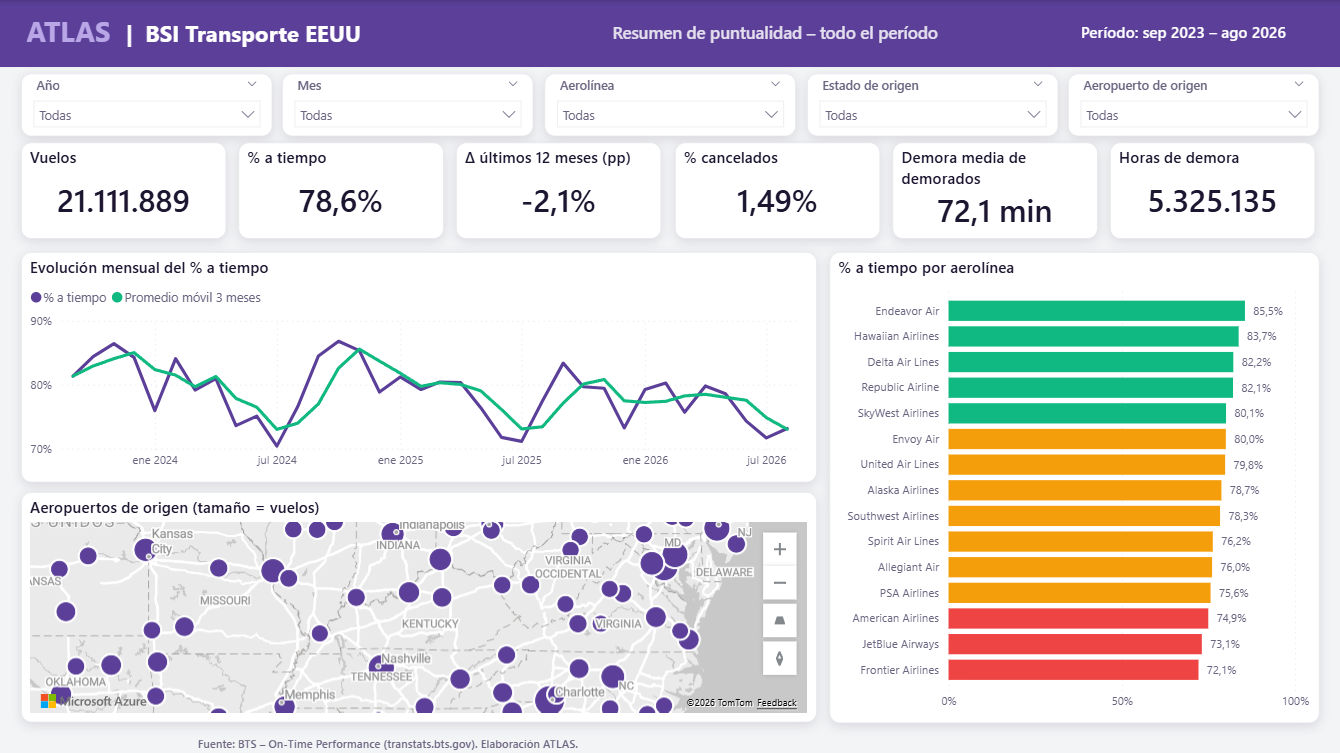
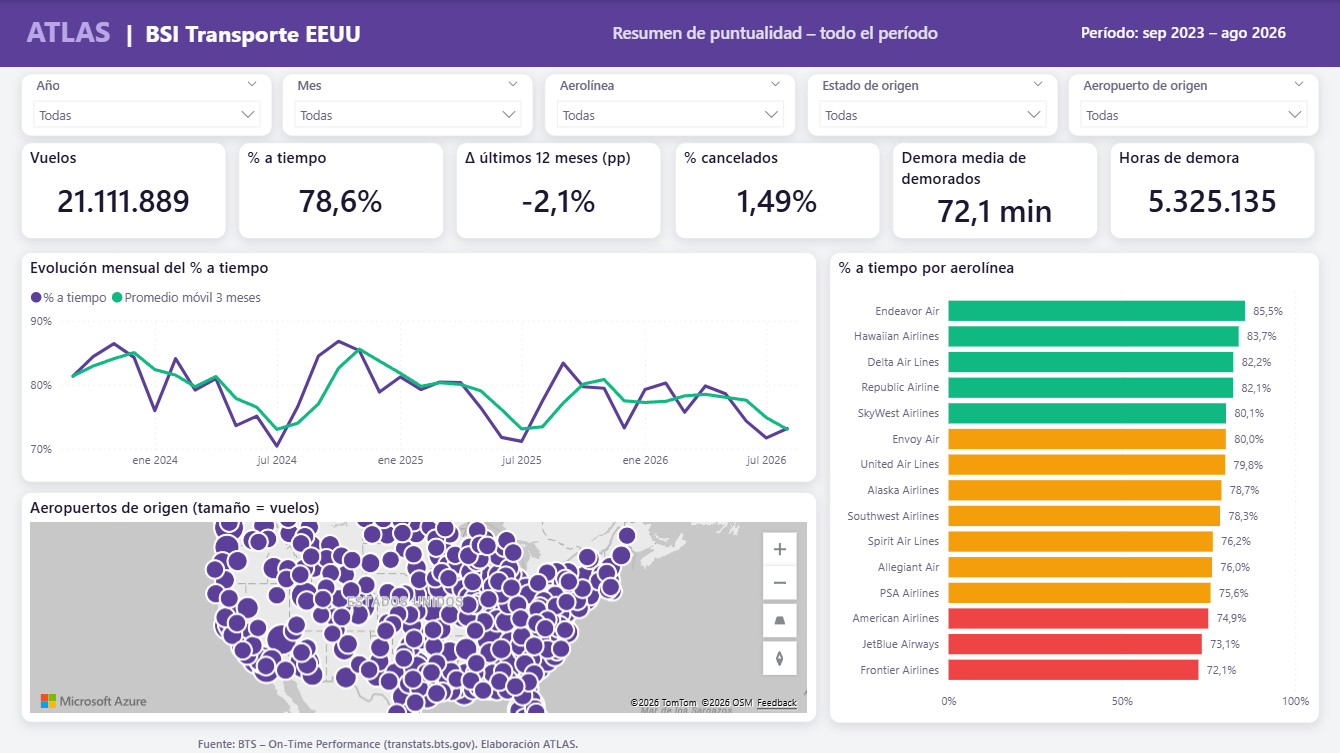
Generador al día con la revisión de UI/UX; mapa del Resumen con vista país
- 03_generar_pbip.py produce el mismo reporte y modelo que pbip/: tema
  ATLAS_Theme.json, semáforo 80/75, sombras, título dinámico, barras de
  datos, mapa de calor divergente, formato condicional del detalle y panel
  de filtros oculto
- Mapa de la página Resumen: vuelve a la vista de todo el país (Desktop lo
  había guardado con zoom en la costa este)
- Tema sin la clave outspacePane, que no es un estilo visual

Changed region(s): [[0.0, 0.672, 0.5813, 0.9469]]

diff --git a/scripts/03_generar_pbip.py b/scripts/03_generar_pbip.py
@@ -21,12 +21,16 @@ BASE_THEME = "CY26SU02"
 AZUL = "#1D1631"     # tinta ATLAS (banda, títulos)
 VIOLETA = "#5B3F99"  # acento ATLAS
 LILA = "#B9A6E6"
-TURQ = "#2E9C8F"     # bueno
-AMBAR = "#E0A526"    # neutro
-ROJO = "#C8102E"     # malo
+TURQ = "#10B981"     # bueno (semáforo: ≥80% a tiempo)
+AMBAR = "#F59E0B"    # neutro (75–80%)
+ROJO = "#EF4444"     # malo (<75%)
 GRIS = "#6B6480"
-FONDO = "#F4F1F9"
-BORDE = "#E4DFEE"
+FONDO = "#F3F4F6"    # lienzo
+FILA_ALT = "#F9FAFB" # filas alternas de tablas
+BORDE = "#E5E7EB"
+# mapa de calor divergente azul → claro → naranja (apto daltónicos)
+CALOR = ["#2166AC", "#67A9CF", "#D1E5F0", "#FDDBC7", "#F4A15D", "#D9600F"]
+TEMA_ARCHIVO = "ATLAS_Theme.json"
 PALETA = [VIOLETA, TURQ, AMBAR, "#1F4E9C", ROJO, "#7A5FB5", "#9A93AD", "#E06C3C", AZUL, GRIS]
 
 SM = f"{NAME}.SemanticModel"
@@ -183,20 +187,35 @@ MEDIDAS = [
      "\"Vuelos de \" & FORMAT ( MAX ( fDetalle[Fecha] ), \"mmmm yyyy\" )",
      None, "6 Detalle", None),
     # --- Formato y textos
-    ("Color % A Tiempo",
-     f"VAR v = [% A Tiempo]\nRETURN\n    SWITCH ( TRUE (), ISBLANK ( v ), BLANK (), v >= 0.80, \"{TURQ}\", v >= 0.72, \"{AMBAR}\", \"{ROJO}\" )",
-     None, "9 Formato", "Semáforo: verde ≥80%, ámbar ≥72%, rojo debajo"),
+    ("Color Puntualidad",
+     f"VAR v = [% A Tiempo]\nRETURN\n    SWITCH ( TRUE (), ISBLANK ( v ), BLANK (), v >= 0.80, \"{TURQ}\", v >= 0.75, \"{AMBAR}\", \"{ROJO}\" )",
+     None, "9 Formato", "Semáforo de puntualidad: verde ≥80%, ámbar 75–80%, rojo <75%"),
+    ("Color % A Tiempo", "[Color Puntualidad]",
+     None, "9 Formato", "Semáforo (alias de Color Puntualidad): verde ≥80%, ámbar 75–80%, rojo <75%"),
     ("Color P % A Tiempo",
-     f"VAR v = [P % A Tiempo]\nRETURN\n    SWITCH ( TRUE (), ISBLANK ( v ), BLANK (), v >= 0.80, \"{TURQ}\", v >= 0.72, \"{AMBAR}\", \"{ROJO}\" )",
-     None, "9 Formato", None),
+     f"VAR v = [P % A Tiempo]\nRETURN\n    SWITCH ( TRUE (), ISBLANK ( v ), BLANK (), v >= 0.80, \"{TURQ}\", v >= 0.75, \"{AMBAR}\", \"{ROJO}\" )",
+     None, "9 Formato", "Semáforo sobre fPatrones: verde ≥80%, ámbar 75–80%, rojo <75%"),
     ("Color % Demorados",
-     f"VAR v = [P % Demorados]\nRETURN\n    SWITCH ( TRUE (), ISBLANK ( v ), BLANK (), v < 0.15, \"{TURQ}\", v < 0.20, \"#7FB8A0\", v < 0.25, \"{AMBAR}\", v < 0.30, \"#E06C3C\", \"{ROJO}\" )",
-     None, "9 Formato", "Escala del mapa de calor: <15% verde ... ≥30% rojo"),
+     "VAR v = [P % Demorados]\nRETURN\n    SWITCH ( TRUE (), ISBLANK ( v ), BLANK (),\n"
+     f"        v < 0.12, \"{CALOR[0]}\", v < 0.16, \"{CALOR[1]}\", v < 0.20, \"{CALOR[2]}\",\n"
+     f"        v < 0.24, \"{CALOR[3]}\", v < 0.28, \"{CALOR[4]}\", \"{CALOR[5]}\" )",
+     None, "9 Formato", "Mapa de calor divergente azul → claro → naranja (apto daltónicos): azul = pocas demoras"),
+    ("Color Texto % Demorados",
+     f"VAR v = [P % Demorados]\nRETURN\n    SWITCH ( TRUE (), ISBLANK ( v ), BLANK (), v < 0.16 || v >= 0.28, \"#FFFFFF\", \"{AZUL}\" )",
+     None, "9 Formato", "Texto oscuro sobre celdas claras del mapa de calor, blanco sobre las oscuras"),
+    ("Color Demora Llegada",
+     "VAR v = MAX ( fDetalle[DemoraLlegadaMin] )\nRETURN\n    SWITCH ( TRUE (), ISBLANK ( v ), BLANK (), v > 60, \"#FDE2E2\", v <= 0, \"#D1FAE5\", BLANK () )",
+     None, "9 Formato", "Detalle: rojo si la llegada se demoró más de 60 min, verde si llegó sin demora"),
     ("Texto Período",
      "\"Período: \" & FORMAT ( MIN ( dMes[FechaMes] ), \"mmm yyyy\" ) & \" – \" & FORMAT ( MAX ( dMes[FechaMes] ), \"mmm yyyy\" )",
      None, "9 Formato", None),
     ("Texto Fuente", "\"Fuente: BTS – On-Time Performance (transtats.bts.gov). Elaboración ATLAS.\"", None,
      "9 Formato", None),
+    ("Titulo Dinamico",
+     "VAR anio = IF ( HASONEVALUE ( dMes[Anio] ), \" \" & VALUES ( dMes[Anio] ), IF ( ISFILTERED ( dMes[Anio] ), \" \" & CONCATENATEX ( VALUES ( dMes[Anio] ), dMes[Anio], \", \", dMes[Anio] ), \"\" ) )\n"
+     "VAR mes = IF ( HASONEVALUE ( dMes[Mes] ), \" \" & VALUES ( dMes[Mes] ), IF ( ISFILTERED ( dMes[Mes] ), \" (\" & COUNTROWS ( VALUES ( dMes[Mes] ) ) & \" meses)\", \"\" ) )\n"
+     "VAR filtro = TRIM ( anio & mes )\nRETURN\n    \"Resumen de puntualidad\" & IF ( filtro = \"\", \" – todo el período\", \" – \" & filtro )",
+     None, "9 Formato", "Título según los filtros de Año y Mes"),
 ]
 
 
@@ -374,8 +393,10 @@ def titulo(texto):
 
 def contenedor(extra=None):
     o = {"background": [{"properties": {"show": lit(True), "color": {"solid": {"color": lit("#FFFFFF")}}}}],
-         "border": [{"properties": {"show": lit(True), "color": {"solid": {"color": lit(BORDE)}}, "radius": lit(8)}}],
-         "dropShadow": [{"properties": {"show": lit(False)}}]}
+         "border": [{"properties": {"show": lit(True), "color": {"solid": {"color": lit(BORDE)}}, "radius": lit(10)}}],
+         "dropShadow": [{"properties": {"show": lit(True), "color": {"solid": {"color": lit(AZUL)}}, "position": lit("Outer"),
+                                        "preset": lit("Custom"), "transparency": lit(88), "shadowBlur": lit(10),
+                                        "shadowDistance": lit(3), "shadowSpread": lit(0), "angle": lit(90)}}]}
     if extra:
         o.update(extra)
     return o
@@ -413,8 +434,7 @@ class Pagina:
             objects.setdefault("mapControls", [{"properties": {
                 "autoZoom": lit(False), "zoom": lit(MAPA_ZOOM.get(self.nombre, 3.2)),
                 "centerLatitude": lit(38.5), "centerLongitude": lit(-96.5), "showStylePicker": lit(False)}}])
-            objects.setdefault("bubbleLayer", [{"properties": {
-                "minRadius": lit(2), "maxRadius": lit(16), "transparency": lit(30), "strokeWidth": lit(1)}}])
+            objects.setdefault("bubbleLayer", [{"properties": {"maxRadius": lit(16)}}])
         if objects:
             v["objects"] = objects
         vco = contenedor(titulo(title) if title else {"title": [{"properties": {"show": lit(False)}}]})
@@ -439,7 +459,7 @@ class Pagina:
                        "visualContainerObjects": {"background": [{"properties": {"show": lit(False)}}]}},
         })
 
-    def encabezado(self, subtitulo, slicers=None, periodo="Texto Período"):
+    def encabezado(self, subtitulo, slicers=None, periodo="Texto Período", subtitulo_medida=None):
         self.z += 1
         # banda superior
         self.visuales.append({
@@ -452,13 +472,23 @@ class Pagina:
         self.texto(20, 6, 520, 52, [
             ("ATLAS  ", {"fontWeight": "bold", "fontSize": "20pt", "color": LILA}),
             ("|  BSI Transporte EEUU", {"fontWeight": "bold", "fontSize": "16pt", "color": "#FFFFFF"})])
-        self.texto(560, 14, 420, 40, [(subtitulo, {"fontSize": "12pt", "color": "#C9C2DB"})])
+        if subtitulo_medida:  # subtítulo dinámico (tarjeta transparente con una medida de texto)
+            self.add("card", 500, 8, 480, 48, {"Values": [M(subtitulo_medida)]}, objects={
+                "labels": [{"properties": {"color": {"solid": {"color": lit("#E4DFEE")}}, "fontSize": lit(12)}}],
+                "categoryLabels": [{"properties": {"show": lit(False)}}]},
+                extra_vco={"background": [{"properties": {"show": lit(False)}}],
+                           "border": [{"properties": {"show": lit(False)}}],
+                           "dropShadow": [{"properties": {"show": lit(False)}}]})
+            self.visuales[-1]["name"] = f"{self.nombre}_{self.z:02d}_titulo"
+        else:
+            self.texto(560, 14, 420, 40, [(subtitulo, {"fontSize": "12pt", "color": "#C9C2DB"})])
         # tarjeta con período dinámico
         self.add("card", 990, 8, 280, 48, {"Values": [M(periodo)]}, objects={
             "labels": [{"properties": {"color": {"solid": {"color": lit("#FFFFFF")}}, "fontSize": lit(11)}}],
             "categoryLabels": [{"properties": {"show": lit(False)}}]},
             extra_vco={"background": [{"properties": {"show": lit(False)}}],
-                       "border": [{"properties": {"show": lit(False)}}]})
+                       "border": [{"properties": {"show": lit(False)}}],
+                       "dropShadow": [{"properties": {"show": lit(False)}}]})
         # segmentadores
         y = 72
         for i, (ent, prop, tit) in enumerate(slicers or SLICERS_STD):
@@ -473,7 +503,8 @@ class Pagina:
         self.add("card", 20, 696, 700, 22, {"Values": [M("Texto Fuente")]}, objects={
             "labels": [{"properties": {"color": {"solid": {"color": lit(GRIS)}}, "fontSize": lit(8)}}],
             "categoryLabels": [{"properties": {"show": lit(False)}}]},
-            extra_vco={"background": [{"properties": {"show": lit(False)}}], "border": [{"properties": {"show": lit(False)}}]})
+            extra_vco={"background": [{"properties": {"show": lit(False)}}], "border": [{"properties": {"show": lit(False)}}],
+                       "dropShadow": [{"properties": {"show": lit(False)}}]})
 
 
 def kpis(p, y, medidas):
@@ -486,10 +517,23 @@ def kpis(p, y, medidas):
             "categoryLabels": [{"properties": {"show": lit(False)}}]})
 
 
-def barras_color(medida_color="Color % A Tiempo"):
+def barras_color(medida_color="Color Puntualidad"):
     return {"dataPoint": [{"properties": {"fill": {"solid": {"color": {"expr": {"Measure": {
         "Expression": {"SourceRef": {"Entity": "Medidas"}}, "Property": medida_color}}}}}},
         "selector": {"data": [{"dataViewWildcard": {"matchingOption": 1}}]}}]}
+
+
+def color_medida(medida):
+    return {"solid": {"color": {"expr": {"Measure": {"Expression": {"SourceRef": {"Entity": "Medidas"}}, "Property": medida}}}}}
+
+
+def barra_datos(query_ref, color):
+    """Barras de datos en una columna de tabla."""
+    return {"properties": {"dataBars": {"positiveColor": {"solid": {"color": lit(color)}},
+                                        "negativeColor": {"solid": {"color": lit("#FCA5A5")}},
+                                        "axisColor": {"solid": {"color": lit("#9CA3AF")}},
+                                        "reverseDirection": lit(False), "hideText": lit(False)}},
+            "selector": {"metadata": query_ref}}
 
 
 SLICERS_STD = [("dMes", "Anio", "Año"), ("dMes", "Mes", "Mes"), ("dAerolinea", "Aerolinea", "Aerolínea"),
@@ -505,7 +549,7 @@ def paginas():
     P = []
     # 1 RESUMEN ---------------------------------------------------------------
     p = Pagina("p1resumen", "Resumen")
-    p.encabezado("Resumen ejecutivo de puntualidad")
+    p.encabezado("Resumen ejecutivo de puntualidad", subtitulo_medida="Titulo Dinamico")
     kpis(p, 136, [("Vuelos", "Vuelos"), ("% A Tiempo", "% a tiempo"), ("Δ % A Tiempo 12M", "Δ últimos 12 meses (pp)"),
                   ("% Cancelados", "% cancelados"), ("Demora Promedio de Demorados", "Demora media de demorados"),
                   ("Horas de Demora", "Horas de demora")])
@@ -528,7 +572,8 @@ def paginas():
         C("dAerolinea", "Aerolinea"), C("dAerolinea", "TipoAerolinea"), M("Ranking Aerolínea"), M("Vuelos"),
         M("% A Tiempo"), M("Δ % A Tiempo 12M"), M("% Cancelados"), M("Demora Promedio de Demorados"),
         M("% Causa Controlable"), M("Taxi Salida Promedio")]}, title="Tabla de desempeño (ordenar por columna)",
-        sort=(M("Ranking Aerolínea"), "Ascending"))
+        sort=(M("Ranking Aerolínea"), "Ascending"), objects={"columnFormatting": [
+            barra_datos("Medidas.Vuelos", "#B9A8DC"), barra_datos("Medidas.% A Tiempo", "#A7E3CB")]})
     p.add("lineChart", 20, 432, 470, 258, {"Category": [C("dMes", "FechaMes")],
                                            "Series": [C("dAerolinea", "TipoAerolinea")], "Y": [M("% A Tiempo")]},
           title="% a tiempo: troncales vs regionales vs low cost", sort=(C("dMes", "FechaMes"), "Ascending"))
@@ -582,7 +627,7 @@ def paginas():
           objects={"values": [{"properties": {
               "backColor": {"solid": {"color": {"expr": {"Measure": {
                   "Expression": {"SourceRef": {"Entity": "Medidas"}}, "Property": "Color % Demorados"}}}}},
-              "fontColor": {"solid": {"color": lit("#FFFFFF")}}},
+              "fontColor": color_medida("Color Texto % Demorados")},
               "selector": {"data": [{"dataViewWildcard": {"matchingOption": 1}}], "metadata": "Medidas.P % Demorados"}}]})
     p.add("lineChart", 20, 372, 610, 318, {"Category": [C("dMes", "Mes")], "Series": [C("dMes", "Anio")],
                                            "Y": [M("% A Tiempo")]},
@@ -602,17 +647,21 @@ def paginas():
         C("fDetalle", "Fecha"), C("dAerolinea", "Aerolinea"), C("fDetalle", "NroVuelo"), C("fDetalle", "Ruta"),
         C("dHora", "HoraTexto"), C("fDetalle", "DemoraSalidaMin"), C("fDetalle", "DemoraLlegadaMin"),
         C("fDetalle", "Cancelado"), C("dCausaCancelacion", "CausaCancelacion"), C("fDetalle", "Desviado"),
-        C("fDetalle", "DistanciaMillas")]}, title="Vuelos", sort=(C("fDetalle", "DemoraLlegadaMin"), "Descending"))
+        C("fDetalle", "DistanciaMillas")]}, title="Vuelos", sort=(C("fDetalle", "DemoraLlegadaMin"), "Descending"),
+        objects={"values": [{"properties": {"fontSize": lit(10)}},
+                            {"properties": {"backColor": color_medida("Color Demora Llegada")},
+                             "selector": {"data": [{"dataViewWildcard": {"matchingOption": 1}}],
+                                          "metadata": "fDetalle.DemoraLlegadaMin"}}]})
     p.pie()
     P.append(p)
     return P
 
 
 TEMA = {
-    "name": "ATLAS",
+    "name": "ATLAS v2",
     "dataColors": PALETA,
     "foreground": AZUL, "foregroundNeutralSecondary": GRIS, "foregroundNeutralTertiary": "#8A97A6",
-    "background": "#FFFFFF", "backgroundLight": FONDO, "backgroundNeutral": "#E1E6EC",
+    "background": "#FFFFFF", "backgroundLight": FONDO, "backgroundNeutral": BORDE,
     "tableAccent": VIOLETA, "good": TURQ, "neutral": AMBAR, "bad": ROJO,
     "maximum": ROJO, "center": AMBAR, "minimum": TURQ,
     "textClasses": {
@@ -625,9 +674,17 @@ TEMA = {
         "page": {"*": {"background": [{"color": {"solid": {"color": FONDO}}, "transparency": 0}],
                        "outspace": [{"color": {"solid": {"color": FONDO}}}]}},
         "tableEx": {"*": {"columnHeaders": [{"backColor": {"solid": {"color": AZUL}}, "fontColor": {"solid": {"color": "#FFFFFF"}}}],
-                          "values": [{"backColorSecondary": {"solid": {"color": FONDO}}}]}},
+                          "values": [{"backColorSecondary": {"solid": {"color": FILA_ALT}}}]}},
         "pivotTable": {"*": {"columnHeaders": [{"backColor": {"solid": {"color": AZUL}}, "fontColor": {"solid": {"color": "#FFFFFF"}}}],
                              "rowHeaders": [{"backColor": {"solid": {"color": AZUL}}, "fontColor": {"solid": {"color": "#FFFFFF"}}}]}},
+        # tarjetas blancas con borde redondeado y sombra sutil
+        "*": {"*": {"background": [{"show": True, "color": {"solid": {"color": "#FFFFFF"}}, "transparency": 0}],
+                    "border": [{"show": True, "color": {"solid": {"color": BORDE}}, "radius": 10}],
+                    "dropShadow": [{"show": True, "color": {"solid": {"color": AZUL}}, "position": "Outer", "preset": "Custom",
+                                    "transparency": 88, "shadowBlur": 10, "shadowDistance": 3, "shadowSpread": 0, "angle": 90}]}},
+        # textos, formas e imágenes sin tarjeta
+        **{vt: {"*": {"background": [{"show": False}], "border": [{"show": False}], "dropShadow": [{"show": False}]}}
+           for vt in ("textbox", "shape", "basicShape", "image", "actionButton")},
     },
 }
 
@@ -644,21 +701,23 @@ def escribir_reporte():
     shutil.copy(PBI_THEMES / f"{BASE_THEME}.json", sr / f"{BASE_THEME}.json")
     rr = r / "StaticResources" / "RegisteredResources"
     rr.mkdir(parents=True, exist_ok=True)
-    w(rr / "ATLAS_Tema.json", json.dumps(TEMA, indent=2, ensure_ascii=False))
-    w(BASE / "ATLAS_Tema.json", json.dumps(TEMA, indent=2, ensure_ascii=False))
+    w(rr / TEMA_ARCHIVO, json.dumps(TEMA, indent=2, ensure_ascii=False))
+    w(BASE / TEMA_ARCHIVO, json.dumps(TEMA, indent=2, ensure_ascii=False))
     w(d / "version.json", json.dumps({"$schema": f"{SCH}/versionMetadata/1.0.0/schema.json", "version": "2.0.0"}, indent=2))
     w(d / "report.json", json.dumps({
         "$schema": f"{SCH}/report/3.0.0/schema.json",
         "themeCollection": {
             "baseTheme": {"name": BASE_THEME, "reportVersionAtImport": {"visual": "2.4.0", "report": "3.0.0", "page": "2.3.0"},
                           "type": "SharedResources"},
-            "customTheme": {"name": "ATLAS_Tema.json", "reportVersionAtImport": {"visual": "2.4.0", "report": "3.0.0", "page": "2.3.0"},
+            "customTheme": {"name": TEMA_ARCHIVO, "reportVersionAtImport": {"visual": "2.4.0", "report": "3.0.0", "page": "2.3.0"},
                             "type": "RegisteredResources"}},
         "resourcePackages": [
             {"name": "SharedResources", "type": "SharedResources",
              "items": [{"name": BASE_THEME, "path": f"BaseThemes/{BASE_THEME}.json", "type": "BaseTheme"}]},
             {"name": "RegisteredResources", "type": "RegisteredResources",
-             "items": [{"name": "ATLAS_Tema.json", "path": "ATLAS_Tema.json", "type": "CustomTheme"}]}],
+             "items": [{"name": TEMA_ARCHIVO, "path": TEMA_ARCHIVO, "type": "CustomTheme"}]}],
+        # panel de filtros nativo oculto para los lectores (los segmentadores están en el lienzo)
+        "objects": {"outspacePane": [{"properties": {"expanded": lit(False), "visible": lit(False)}}]},
         "settings": {"useStylableVisualContainerHeader": True, "exportDataMode": "AllowSummarized",
                      "defaultDrillFilterOtherVisuals": True, "allowChangeFilterTypes": True,
                      "useEnhancedTooltips": True, "useDefaultAggregateDisplayName": True},

diff --git a/Mejoras_UI_Manual.md b/Mejoras_UI_Manual.md
@@ -2,7 +2,7 @@
 
 Este documento acompaña la revisión de UI/UX del 16/11/2026. La primera parte lista lo que ya quedó aplicado en los archivos del proyecto (PBIR + TMDL). La segunda explica, paso a paso, lo que falta hacer a mano en Power BI Desktop.
 
-> **Importante:** `scripts/03_generar_pbip.py` vuelve a generar la carpeta `pbip/` desde cero y **pisa estos cambios**. No lo corras sin antes pasar estos cambios al script, o hacé un commit para poder recuperarlos.
+> **Generador:** `scripts/03_generar_pbip.py` ya incluye todo lo de la sección 1, así que regenerar `pbip/` no pierde esta revisión. Los pasos manuales de la sección 2 sí se pierden al regenerar: cuando los apliques, pasalos también al script.
 
 ---
 
@@ -44,7 +44,7 @@ Repetí los mismos pasos en el mapa de la **Página 3** (`Vuelos demorados por a
 
 > Si **Valor de campo** no aparece para ese mapa, usá **Escala de colores** sobre la medida `% A Tiempo`: mínimo `#EF4444`, centro `#F59E0B` (valor 0,775) y máximo `#10B981`.
 
-Opcional: para que el mapa muestre todo el país al abrir, en **Formato → Configuración de la vista** desactivá **Vista automática** y fijá un zoom de 3 centrado en lat 39 / lon −97.
+El mapa de la Página 1 ya abre mostrando todo el país (antes abría con zoom en la costa este). Si lo movés en Desktop y guardás, se guarda esa nueva vista.
 
 ### 2.2 Página 2 (Comparativo): ajuste fino de las barras de datos
 
